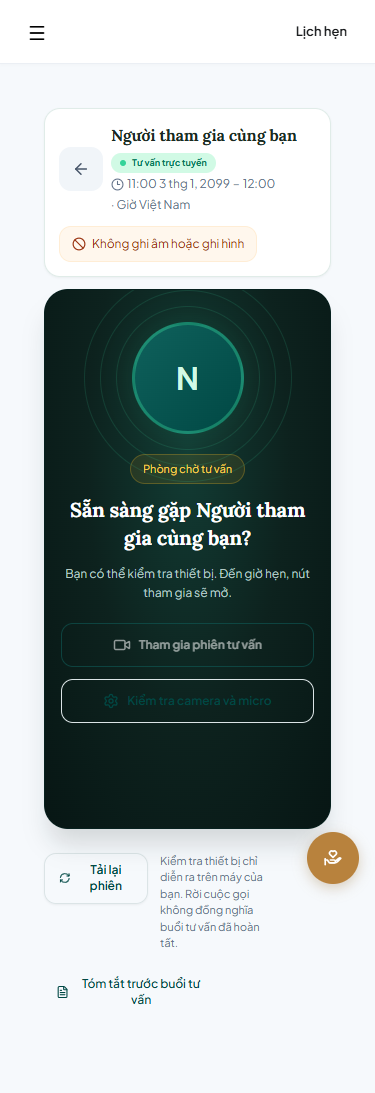
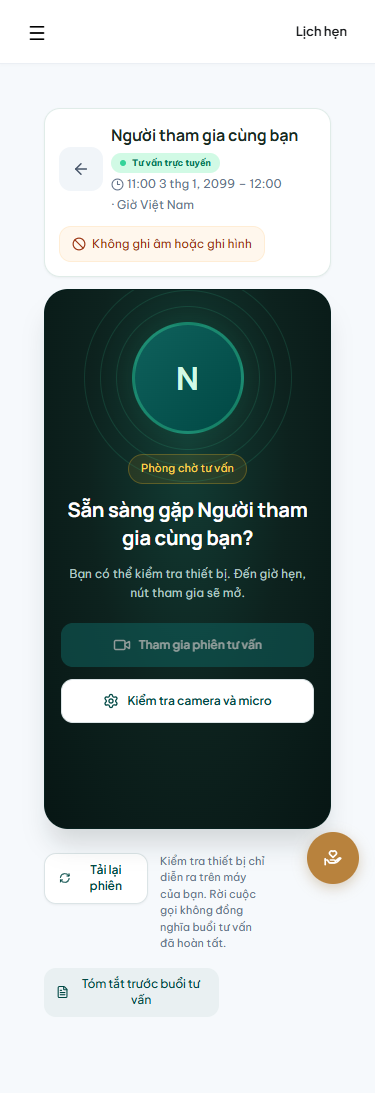
fix(consultation): preserve call styles across role shells (MB-384)

diff --git a/mentalbridge/features/appointments/components/VideoMedia.tsx b/mentalbridge/features/appointments/components/VideoMedia.tsx
@@ -188,6 +188,7 @@ function DevicePreview({
         <div className={styles.waitingActions}>
           {onJoin && (
             <button
+              data-appointment-ui
               type="button"
               className={styles.primary}
               disabled={joinDisabled}
@@ -199,6 +200,7 @@ function DevicePreview({
           )}
           {allowed && (
             <button
+              data-appointment-ui
               type="button"
               disabled={busy}
               onClick={() => (ready ? stop() : void preview())}
@@ -246,6 +248,7 @@ function DeviceSelect({
     <label className={styles.deviceSelect}>
       {label}
       <select
+        data-appointment-ui
         value={activeDeviceId ?? ''}
         disabled={!devices.length}
         onChange={(event) => {
@@ -488,6 +491,7 @@ function CallControls({
           {surface(!swapped)}
           <div className={styles.pipHeader}>
             <button
+              data-appointment-ui
               type="button"
               className={styles.dragHandle}
               aria-label="Di chuyển khung hình nhỏ"
@@ -549,6 +553,7 @@ function CallControls({
               <span>Kéo thả</span>
             </button>
             <button
+              data-appointment-ui
               type="button"
               aria-label="Hoán đổi khung hình"
               title="Hoán đổi với khung to"
@@ -557,6 +562,7 @@ function CallControls({
               <ArrowUpDown size={14} aria-hidden="true" />
             </button>
             <button
+              data-appointment-ui
               type="button"
               aria-label="Chuyển góc khung hình nhỏ"
               title="Chuyển sang góc tiếp theo"
@@ -588,7 +594,7 @@ function CallControls({
         <RoomAudioRenderer />
         <div className={styles.callFeedback}>
           {!canPlayAudio && (
-            <button {...mergedProps} type="button">
+            <button data-appointment-ui {...mergedProps} type="button">
               Bật âm thanh cuộc gọi
             </button>
           )}
@@ -601,6 +607,7 @@ function CallControls({
             aria-label="Điều khiển cuộc gọi"
           >
             <button
+              data-appointment-ui
               type="button"
               className={styles.micButton}
               disabled={busy || state !== 'connected'}
@@ -616,6 +623,7 @@ function CallControls({
               )}
             </button>
             <button
+              data-appointment-ui
               type="button"
               className={styles.cameraButton}
               disabled={busy || state !== 'connected'}
@@ -631,6 +639,7 @@ function CallControls({
               )}
             </button>
             <button
+              data-appointment-ui
               type="button"
               aria-label="Hoán đổi khung hình chính"
               title="Hoán đổi khung hình"
@@ -639,6 +648,7 @@ function CallControls({
               <ArrowUpDown size={20} aria-hidden="true" />
             </button>
             <button
+              data-appointment-ui
               type="button"
               aria-label="Cài đặt thiết bị"
               title="Cài đặt thiết bị"
@@ -650,6 +660,7 @@ function CallControls({
               <Settings size={20} aria-hidden="true" />
             </button>
             <button
+              data-appointment-ui
               type="button"
               className={styles.leaveCall}
               aria-label="Rời cuộc gọi"
@@ -677,10 +688,15 @@ function CallControls({
             còn mở. Rời cuộc gọi không xác nhận buổi tư vấn đã hoàn tất.
           </p>
           <div className={styles.dialogActions}>
-            <button type="button" onClick={() => setLeaving(false)}>
+            <button
+              data-appointment-ui
+              type="button"
+              onClick={() => setLeaving(false)}
+            >
               Tiếp tục cuộc gọi
             </button>
             <button
+              data-appointment-ui
               type="button"
               className={styles.confirmLeave}
               onClick={onLeave}
@@ -700,6 +716,7 @@ function CallControls({
           <div className={styles.dialogHeading}>
             <h2 id={`${dialogId}-settings`}>Cài đặt thiết bị</h2>
             <button
+              data-appointment-ui
               type="button"
               aria-label="Đóng cài đặt"
               onClick={() => setSettings(false)}

diff --git a/mentalbridge/features/appointments/components/VideoConsultation.module.css b/mentalbridge/features/appointments/components/VideoConsultation.module.css
@@ -1,5 +1,10 @@
 /* Owner-approved call reference, scoped to this feature; the app shell is unchanged. */
 .workspace {
+  --font-be-vietnam:
+    var(--font-be-vietnam-variable), 'Be Vietnam Pro Fallback', system-ui,
+    sans-serif;
+  --font-body: var(--font-be-vietnam);
+  font-family: var(--font-body);
   width: 100%;
   min-width: 0;
   color: var(--ink);
@@ -58,7 +63,7 @@
   font:
     700 16px/1.5 var(--font-video-display),
     var(--font-body),
-    sans-serif;
+    sans-serif !important;
   color: #004844;
   overflow-wrap: anywhere;
 }
@@ -148,12 +153,12 @@
   outline-offset: 3px;
 }
 .panel .primary {
-  color: #fff;
-  background: #0f615c;
+  color: #fff !important;
+  background: #0f615c !important;
   border-color: #0f615c;
 }
 .panel .primary:hover:not(:disabled) {
-  background: #004844;
+  background: #004844 !important;
 }
 .call,
 .standby {
@@ -327,6 +332,10 @@
 }
 .panel .call .waiting h3 {
   color: #fff !important;
+  font:
+    700 clamp(20px, 2vw, 24px)/1.4 var(--font-video-display),
+    var(--font-body),
+    sans-serif !important;
 }
 .panel .call .waiting p {
   color: #b5cac5 !important;
@@ -414,6 +423,12 @@
 }
 .waitingActions > button {
   font-size: 12px;
+  background: #fff !important;
+  color: #004844 !important;
+}
+.panel .waitingActions > .primary {
+  background: #0f615c !important;
+  color: #fff !important;
 }
 .localPreview,
 .localVideo {
@@ -508,9 +523,9 @@
   padding: 0;
   width: 44px;
   flex-shrink: 0;
-  border: 0;
-  background: transparent;
-  color: #fff;
+  border: 0 !important;
+  background: transparent !important;
+  color: #fff !important;
   border-radius: 6px;
 }
 .panel .pipHeader .dragHandle {
@@ -555,36 +570,36 @@
   height: 48px;
   min-height: 48px;
   flex: 0 0 48px;
-  padding: 0;
-  border: 0;
-  border-radius: 50%;
+  padding: 0 !important;
+  border: 0 !important;
+  border-radius: 50% !important;
   color: #fff !important;
-  background: #24423c;
+  background: #24423c !important;
 }
 .panel .callControls button:hover:not(:disabled) {
-  background: #365c53;
+  background: #365c53 !important;
 }
 .panel .callControls .micButton[aria-pressed='true'] {
-  background: #059669;
+  background: #059669 !important;
 }
 .panel .callControls .cameraButton {
-  background: #fff;
+  background: #fff !important;
   color: #1e293b !important;
 }
 .panel .callControls .cameraButton:hover:not(:disabled) {
-  background: #ecfdf5;
+  background: #ecfdf5 !important;
 }
 .panel .callControls .cameraButton[aria-pressed='false'] {
-  background: #ffe4e6;
+  background: #ffe4e6 !important;
   color: #e11d48 !important;
 }
 .panel .callControls .leaveCall {
   color: #fff;
-  background: #e11d48;
+  background: #e11d48 !important;
   box-shadow: 0 10px 15px -3px #e11d4833;
 }
 .panel .callControls .leaveCall:hover {
-  background: #be123c;
+  background: #be123c !important;
 }
 .leaveCall svg,
 .leaveIcon svg {
@@ -627,6 +642,8 @@
 }
 .footerNote > button {
   flex-shrink: 0;
+  background: #fff !important;
+  color: #004844 !important;
   box-shadow: 0 1px 2px #0000000d;
 }
 .note {
@@ -653,7 +670,7 @@
   border: 0;
   border-radius: 12px;
   color: #004844;
-  background: #0048440d;
+  background: #0048440d !important;
   font-size: 12px;
   font-weight: 500;
   text-decoration: none;
@@ -686,7 +703,7 @@
   font:
     700 20px/1.4 var(--font-video-display),
     var(--font-body),
-    sans-serif;
+    sans-serif !important;
   color: #004844;
 }
 .dialogContent p {
@@ -711,8 +728,8 @@
   margin-top: 24px;
 }
 .dialogActions .confirmLeave {
-  background: #e11d48;
-  color: #fff;
+  background: #e11d48 !important;
+  color: #fff !important;
   border-color: #e11d48;
 }
 .dialogActions .confirmLeave:hover {
@@ -844,7 +861,7 @@
     display: none;
   }
   .waiting:has(+ .localPreview:not([hidden])) h3 {
-    font-size: 16px;
+    font-size: 16px !important;
   }
   .footerNote {
     flex-basis: 100%;

diff --git a/mentalbridge/features/appointments/components/VideoConsultationPanel.tsx b/mentalbridge/features/appointments/components/VideoConsultationPanel.tsx
@@ -428,6 +428,7 @@ export function VideoSessionPanel({
         <footer className={styles.footer}>
           <div className={styles.footerNote}>
             <button
+              data-appointment-ui
               type="button"
               disabled={busy}
               onClick={() => {
@@ -448,6 +449,7 @@ export function VideoSessionPanel({
           <div className={styles.actions}>
             {preparation ? (
               <button
+                data-appointment-ui
                 type="button"
                 className={styles.preparationButton}
                 onClick={() => setPreparationOpen(true)}
@@ -469,6 +471,7 @@ export function VideoSessionPanel({
               (uncertain ||
                 (session && ['ACTIVE', 'ENDED'].includes(session.phase))) && (
                 <button
+                  data-appointment-ui
                   type="button"
                   className={styles.primary}
                   disabled={busy}
@@ -505,6 +508,7 @@ export function VideoSessionPanel({
             <div className={styles.dialogHeading}>
               <h2 id={preparationId}>Thông tin trước buổi tư vấn</h2>
               <button
+                data-appointment-ui
                 type="button"
                 aria-label="Đóng thông tin chuẩn bị"
                 onClick={() => setPreparationOpen(false)}

diff --git a/mentalbridge/features/appointments/components/VideoMedia.test.tsx b/mentalbridge/features/appointments/components/VideoMedia.test.tsx
@@ -221,6 +221,8 @@ describe('official Web SDK presentation boundary', () => {
     expect(within(remote).getByText('Micro đang tắt')).toBeInTheDocument()
     const controls = screen.getByRole('group', { name: 'Điều khiển cuộc gọi' })
     expect(within(controls).getAllByRole('button')).toHaveLength(5)
+    for (const button of within(controls).getAllByRole('button'))
+      expect(button).toHaveAttribute('data-appointment-ui')
     expect(
       screen.getByRole('button', { name: 'Micro: Đang tắt' }),
     ).toHaveAttribute('aria-pressed', 'false')
